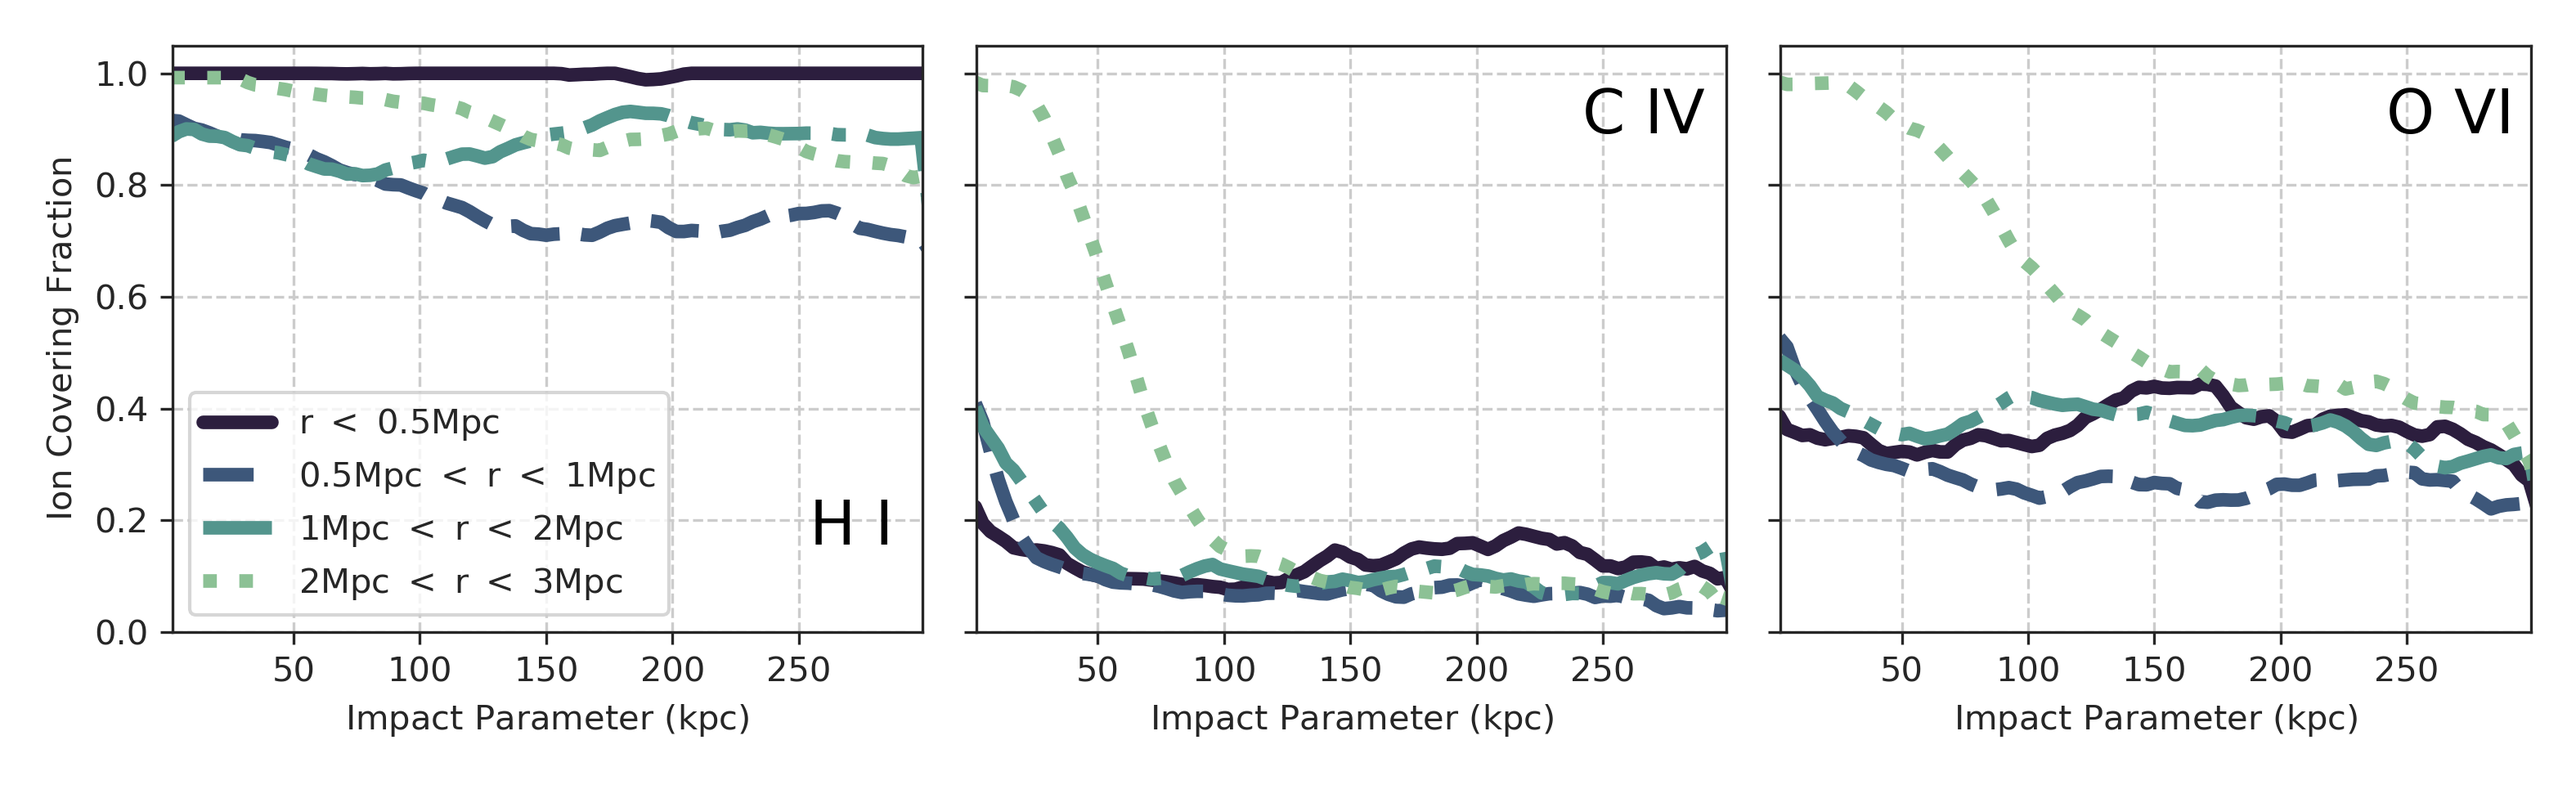
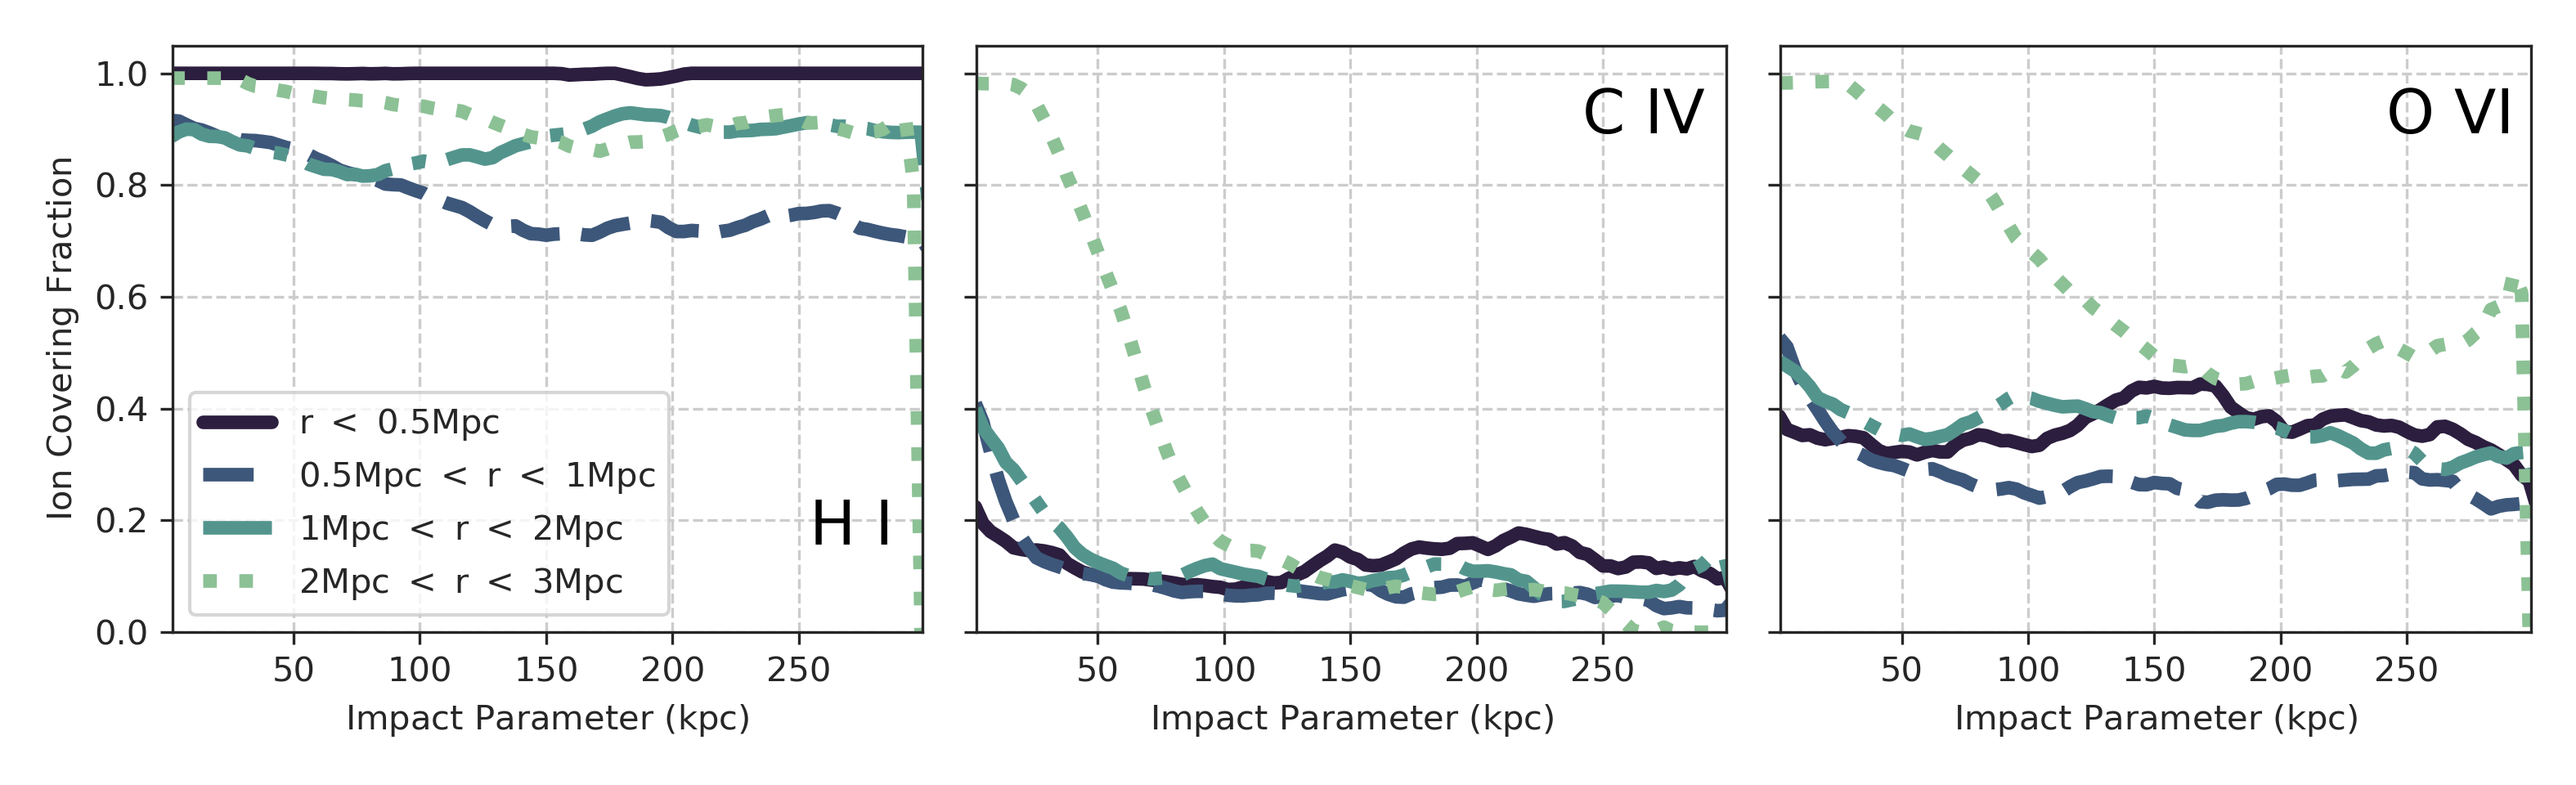
more plot updates

diff --git a/plot_multipanel_halo_ion.py b/plot_multipanel_halo_ion.py
@@ -15,7 +15,7 @@ sns.set_style("ticks",{'axes.grid': True, 'grid.linestyle': '--'})
 
 import ion_plot_definitions as ipd
 
-def load_combined_counts(ion, output_list, plot_bin, sim = 'romulusC', suffix = '_300'):
+def load_combined_counts(ion, output_list, plot_bin, sim = 'romulusC', suffix = '_600'):
     counts = np.zeros(799*799)
     for output in output_list:
         plot_data = h5.File('/nobackup/ibutsky/data/YalePaper/%s.%06d_combined_halo_ion_histogram_data%s.h5'%(sim, output, suffix), 'r')
@@ -24,7 +24,7 @@ def load_combined_counts(ion, output_list, plot_bin, sim = 'romulusC', suffix = 
 
 
 def multipanel_ion_plot(sim, output, ion_list, plot_type, bin_type, do_colormesh = False, \
-                        combine = False, combined_output_list = [], suffix = '_300'):
+                        combine = False, combined_output_list = [], suffix = '_600'):
 
     plot_data = h5.File('/nobackup/ibutsky/data/YalePaper/%s.%06d_combined_halo_ion_histogram_data%s.h5'%(sim, output, suffix), 'r')
     profile_data = h5.File('/nobackup/ibutsky/data/YalePaper/%s.%06d_combined_halo_ion_profile_data%s.h5'%(sim, output, suffix), 'r')
@@ -69,8 +69,8 @@ def multipanel_ion_plot(sim, output, ion_list, plot_type, bin_type, do_colormesh
         linestyles = ['solid', 'dashed', 'dashdot', 'dotted']
 
     elif bin_type == 'r200':
-        plot_bins = ['r1', 'r2', 'r3', 'r4']
-        plot_bins = ['r2', 'r2', 'r2', 'r2']
+        plot_bins = ['r1', 'r2', 'r3']
+#        plot_bins = ['r4', 'r4', 'r4', 'r4']
 #        plot_labels = ['$\mathrm{r} < 0.5 \mathrm{R}_{\mathrm{vir}}$', \
 #                       '$ 0.5 \mathrm{R}_{\mathrm{vir}} < \mathrm{r} < \mathrm{R}_{\mathrm{vir}}$', \
 #                       '$ \mathrm{R}_{\mathrm{vir}} < \mathrm{r} < 2 \mathrm{R}_{\mathrm{vir}}$' ,\
@@ -80,11 +80,14 @@ def multipanel_ion_plot(sim, output, ion_list, plot_type, bin_type, do_colormesh
                        '$ 2 \mathrm{R}_{200} < \mathrm{r} < 3 \mathrm{R}_{200}$']               
 
         plot_labels = ['$\mathrm{r} < \mathrm{R}_{200}$', '$\mathrm{R}_{200} < \mathrm{r} < 2\mathrm{R}_{200}$',\
-                       '$ 2\mathrm{R}_{200} < \mathrm{r} < 3 \mathrm{R}_{200}$', \
-                       '$ 3 \mathrm{R}_{200} < \mathrm{r} < 4 \mathrm{R}_{200}$']
+                       '$ 2\mathrm{R}_{200} < \mathrm{r} < 3 \mathrm{R}_{200}$']
 
 
         linestyles = ['solid', 'dashed', 'dashdot', 'dotted']
+        linestyles = ['solid', 'dashed', 'dotted']
+        palette = sns.cubehelix_palette(3, start=.5, rot=-.75, reverse = True)
+        colors = [palette[0], palette[1], palette[2]]
+
 
     fig, figax = plt.subplots(nrows = nrows, ncols = ncols, figsize=(3.5*ncols, 3.2*nrows), sharex = True, sharey = sharey)
     
@@ -186,13 +189,13 @@ ion_list = ['H I', 'C IV', 'O VI']
 sim = 'romulusC'
 output = 3035
 plot_type = 'cfrac'
-#multipanel_ion_plot(sim, output, ion_list, plot_type, 'dist', combine = False)
-#multipanel_ion_plot(sim, output, ion_list, plot_type, 'r200', combine = False)
+multipanel_ion_plot(sim, output, ion_list, plot_type, 'dist', combine = False)
+multipanel_ion_plot(sim, output, ion_list, plot_type, 'r200', combine = False)
 
 
 plot_type = 'column'
-#multipanel_ion_plot(sim, output, ion_list, plot_type, 'dist', combine = False)
-multipanel_ion_plot(sim, output, ion_list, plot_type, 'r200', combine = False, do_colormesh= True)
+multipanel_ion_plot(sim, output, ion_list, plot_type, 'dist', combine = False)
+multipanel_ion_plot(sim, output, ion_list, plot_type, 'r200', combine = False)# do_colormesh= True)
 
 
 
